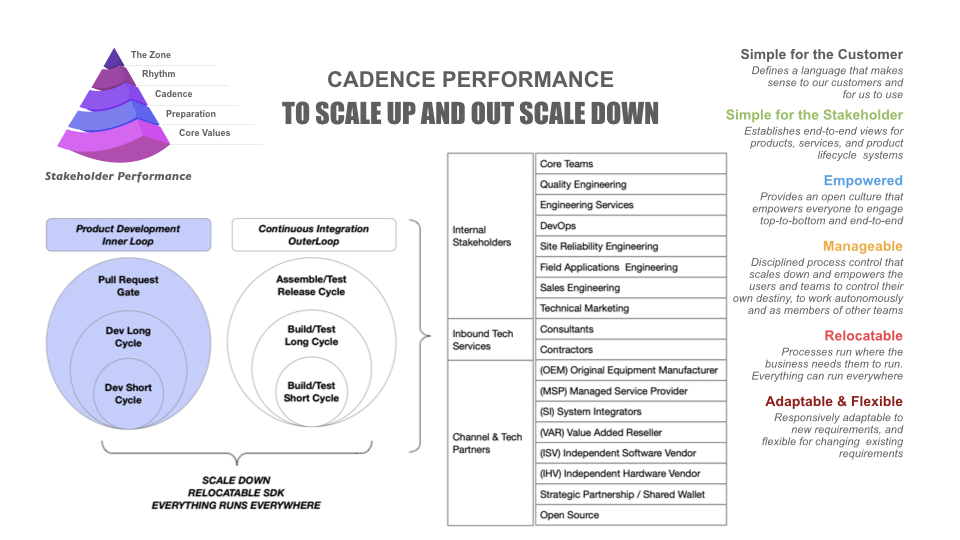
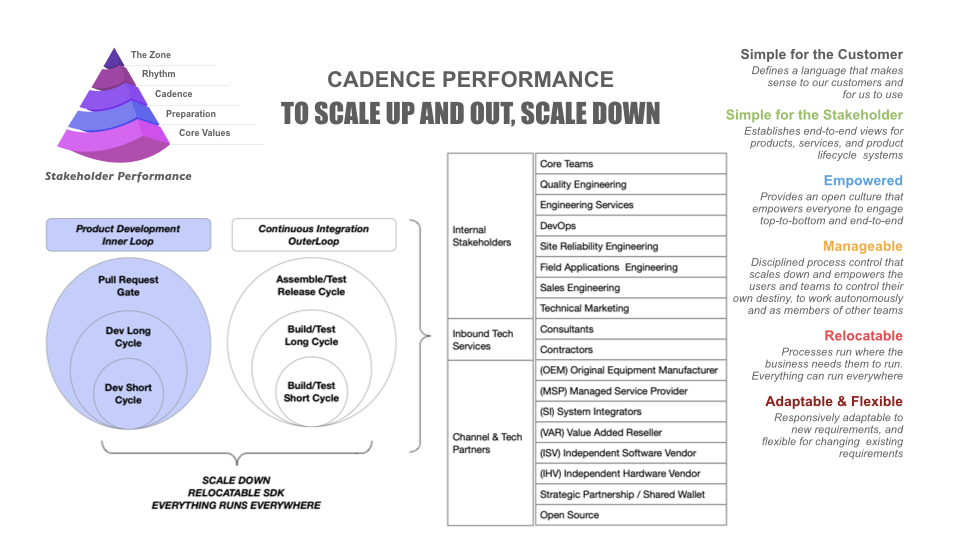
add commad to statement 'to scale up and out, scale down'

Changed region(s): [[0.2812, 0.1778, 0.6875, 0.237]]

diff --git a/_app/start-6b4cd450.js b/_app/start-6b4cd450.js
@@ -1,0 +1,1 @@
+var at=Object.defineProperty,ot=Object.defineProperties;var lt=Object.getOwnPropertyDescriptors;var V=Object.getOwnPropertySymbols;var M=Object.prototype.hasOwnProperty,Y=Object.prototype.propertyIsEnumerable;var X=(n,t,e)=>t in n?at(n,t,{enumerable:!0,configurable:!0,writable:!0,value:e}):n[t]=e,E=(n,t)=>{for(var e in t||(t={}))M.call(t,e)&&X(n,e,t[e]);if(V)for(var e of V(t))Y.call(t,e)&&X(n,e,t[e]);return n},F=(n,t)=>ot(n,lt(t));var H=(n,t)=>{var e={};for(var s in n)M.call(n,s)&&t.indexOf(s)<0&&(e[s]=n[s]);if(n!=null&&V)for(var s of V(n))t.indexOf(s)<0&&Y.call(n,s)&&(e[s]=n[s]);return e};import{S as ct,i as ut,s as ft,e as ht,c as dt,a as _t,d as v,b as C,f as k,t as pt,g as mt,h as gt,j as q,k as wt,l as b,m as D,n as bt,o as U,p as B,q as K,r as P,u as y,v as A,w as I,x as g,y as yt,z as vt,A as Et,B as J,C as W}from"./chunks/vendor-3c118b73.js";function Q(n){let t,e,s;const r=[n[2]||{}];var a=n[0][1];function i(o){let l={$$slots:{default:[kt]},$$scope:{ctx:o}};for(let c=0;c<r.length;c+=1)l=J(l,r[c]);return{props:l}}return a&&(t=new a(i(n))),{c(){t&&q(t.$$.fragment),e=b()},l(o){t&&D(t.$$.fragment,o),e=b()},m(o,l){t&&U(t,o,l),k(o,e,l),s=!0},p(o,l){const c=l&4?B(r,[K(o[2]||{})]):{};if(l&521&&(c.$$scope={dirty:l,ctx:o}),a!==(a=o[0][1])){if(t){P();const u=t;y(u.$$.fragment,1,0,()=>{A(u,1)}),I()}a?(t=new a(i(o)),q(t.$$.fragment),g(t.$$.fragment,1),U(t,e.parentNode,e)):t=null}else a&&t.$set(c)},i(o){s||(t&&g(t.$$.fragment,o),s=!0)},o(o){t&&y(t.$$.fragment,o),s=!1},d(o){o&&v(e),t&&A(t,o)}}}function Z(n){let t,e,s;const r=[n[3]||{}];var a=n[0][2];function i(o){let l={};for(let c=0;c<r.length;c+=1)l=J(l,r[c]);return{props:l}}return a&&(t=new a(i())),{c(){t&&q(t.$$.fragment),e=b()},l(o){t&&D(t.$$.fragment,o),e=b()},m(o,l){t&&U(t,o,l),k(o,e,l),s=!0},p(o,l){const c=l&8?B(r,[K(o[3]||{})]):{};if(a!==(a=o[0][2])){if(t){P();const u=t;y(u.$$.fragment,1,0,()=>{A(u,1)}),I()}a?(t=new a(i()),q(t.$$.fragment),g(t.$$.fragment,1),U(t,e.parentNode,e)):t=null}else a&&t.$set(c)},i(o){s||(t&&g(t.$$.fragment,o),s=!0)},o(o){t&&y(t.$$.fragment,o),s=!1},d(o){o&&v(e),t&&A(t,o)}}}function kt(n){let t,e,s=n[0][2]&&Z(n);return{c(){s&&s.c(),t=b()},l(r){s&&s.l(r),t=b()},m(r,a){s&&s.m(r,a),k(r,t,a),e=!0},p(r,a){r[0][2]?s?(s.p(r,a),a&1&&g(s,1)):(s=Z(r),s.c(),g(s,1),s.m(t.parentNode,t)):s&&(P(),y(s,1,1,()=>{s=null}),I())},i(r){e||(g(s),e=!0)},o(r){y(s),e=!1},d(r){s&&s.d(r),r&&v(t)}}}function $t(n){let t,e,s=n[0][1]&&Q(n);return{c(){s&&s.c(),t=b()},l(r){s&&s.l(r),t=b()},m(r,a){s&&s.m(r,a),k(r,t,a),e=!0},p(r,a){r[0][1]?s?(s.p(r,a),a&1&&g(s,1)):(s=Q(r),s.c(),g(s,1),s.m(t.parentNode,t)):s&&(P(),y(s,1,1,()=>{s=null}),I())},i(r){e||(g(s),e=!0)},o(r){y(s),e=!1},d(r){s&&s.d(r),r&&v(t)}}}function x(n){let t,e=n[5]&&tt(n);return{c(){t=ht("div"),e&&e.c(),this.h()},l(s){t=dt(s,"DIV",{id:!0,"aria-live":!0,"aria-atomic":!0,class:!0});var r=_t(t);e&&e.l(r),r.forEach(v),this.h()},h(){C(t,"id","svelte-announcer"),C(t,"aria-live","assertive"),C(t,"aria-atomic","true"),C(t,"class","svelte-1pdgbjn")},m(s,r){k(s,t,r),e&&e.m(t,null)},p(s,r){s[5]?e?e.p(s,r):(e=tt(s),e.c(),e.m(t,null)):e&&(e.d(1),e=null)},d(s){s&&v(t),e&&e.d()}}}function tt(n){let t;return{c(){t=pt(n[6])},l(e){t=mt(e,n[6])},m(e,s){k(e,t,s)},p(e,s){s&64&&gt(t,e[6])},d(e){e&&v(t)}}}function Rt(n){let t,e,s,r;const a=[n[1]||{}];var i=n[0][0];function o(c){let u={$$slots:{default:[$t]},$$scope:{ctx:c}};for(let f=0;f<a.length;f+=1)u=J(u,a[f]);return{props:u}}i&&(t=new i(o(n)));let l=n[4]&&x(n);return{c(){t&&q(t.$$.fragment),e=wt(),l&&l.c(),s=b()},l(c){t&&D(t.$$.fragment,c),e=bt(c),l&&l.l(c),s=b()},m(c,u){t&&U(t,c,u),k(c,e,u),l&&l.m(c,u),k(c,s,u),r=!0},p(c,[u]){const f=u&2?B(a,[K(c[1]||{})]):{};if(u&525&&(f.$$scope={dirty:u,ctx:c}),i!==(i=c[0][0])){if(t){P();const h=t;y(h.$$.fragment,1,0,()=>{A(h,1)}),I()}i?(t=new i(o(c)),q(t.$$.fragment),g(t.$$.fragment,1),U(t,e.parentNode,e)):t=null}else i&&t.$set(f);c[4]?l?l.p(c,u):(l=x(c),l.c(),l.m(s.parentNode,s)):l&&(l.d(1),l=null)},i(c){r||(t&&g(t.$$.fragment,c),r=!0)},o(c){t&&y(t.$$.fragment,c),r=!1},d(c){t&&A(t,c),c&&v(e),l&&l.d(c),c&&v(s)}}}function Lt(n,t,e){let{stores:s}=t,{page:r}=t,{components:a}=t,{props_0:i=null}=t,{props_1:o=null}=t,{props_2:l=null}=t;yt("__svelte__",s),vt(s.page.notify);let c=!1,u=!1,f=null;return Et(()=>{const h=s.page.subscribe(()=>{c&&(e(5,u=!0),e(6,f=document.title||"untitled page"))});return e(4,c=!0),h}),n.$$set=h=>{"stores"in h&&e(7,s=h.stores),"page"in h&&e(8,r=h.page),"components"in h&&e(0,a=h.components),"props_0"in h&&e(1,i=h.props_0),"props_1"in h&&e(2,o=h.props_1),"props_2"in h&&e(3,l=h.props_2)},n.$$.update=()=>{n.$$.dirty&384&&s.page.set(r)},[a,i,o,l,c,u,f,s,r]}class St extends ct{constructor(t){super();ut(this,t,Lt,Rt,ft,{stores:7,page:8,components:0,props_0:1,props_1:2,props_2:3})}}const qt="modulepreload",et={},Ut="/_app/",R=function(t,e){return!e||e.length===0?t():Promise.all(e.map(s=>{if(s=`${Ut}${s}`,s in et)return;et[s]=!0;const r=s.endsWith(".css"),a=r?'[rel="stylesheet"]':"";if(document.querySelector(`link[href="${s}"]${a}`))return;const i=document.createElement("link");if(i.rel=r?"stylesheet":qt,r||(i.as="script",i.crossOrigin=""),i.href=s,document.head.appendChild(i),r)return new Promise((o,l)=>{i.addEventListener("load",o),i.addEventListener("error",l)})})).then(()=>t())},_=[()=>R(()=>import("./pages/__layout.svelte-297936f9.js"),["pages/__layout.svelte-297936f9.js","assets/pages/__layout.svelte-f8be769b.css","chunks/vendor-3c118b73.js"]),()=>R(()=>import("./error.svelte-4d845e96.js"),["error.svelte-4d845e96.js","chunks/vendor-3c118b73.js"]),()=>R(()=>import("./pages/index.svelte-dcca4041.js"),["pages/index.svelte-dcca4041.js","assets/index.svelte_svelte&type=style&lang-687d79b2.css","assets/Sidebar.svelte_svelte&type=style&lang-ef550f66.css","chunks/vendor-3c118b73.js","chunks/Sidebar-cd3a2008.js"]),()=>R(()=>import("./pages/articles/shift-left-introduction.svelte-0c021c80.js"),["pages/articles/shift-left-introduction.svelte-0c021c80.js","assets/index.svelte_svelte&type=style&lang-687d79b2.css","assets/Sidebar.svelte_svelte&type=style&lang-ef550f66.css","chunks/vendor-3c118b73.js"]),()=>R(()=>import("./pages/articles/core-values.svelte-6373d5f2.js"),["pages/articles/core-values.svelte-6373d5f2.js","assets/index.svelte_svelte&type=style&lang-687d79b2.css","assets/Sidebar.svelte_svelte&type=style&lang-ef550f66.css","chunks/vendor-3c118b73.js"]),()=>R(()=>import("./pages/articles/cadence.svelte-6564fdfd.js"),["pages/articles/cadence.svelte-6564fdfd.js","assets/index.svelte_svelte&type=style&lang-687d79b2.css","assets/Sidebar.svelte_svelte&type=style&lang-ef550f66.css","chunks/vendor-3c118b73.js"]),()=>R(()=>import("./pages/onboard.svelte-ba6d5145.js"),["pages/onboard.svelte-ba6d5145.js","assets/index.svelte_svelte&type=style&lang-687d79b2.css","assets/Sidebar.svelte_svelte&type=style&lang-ef550f66.css","chunks/vendor-3c118b73.js","chunks/Sidebar-cd3a2008.js"])],At=[[/^\/$/,[_[0],_[2]],[_[1]]],[/^\/articles\/shift-left-introduction\/?$/,[_[0],_[3]],[_[1]]],[/^\/articles\/core-values\/?$/,[_[0],_[4]],[_[1]]],[/^\/articles\/cadence\/?$/,[_[0],_[5]],[_[1]]],[/^\/onboard\/?$/,[_[0],_[6]],[_[1]]]],Tt=[_[0](),_[1]()];function jt(n){let t=n.baseURI;if(!t){const e=n.getElementsByTagName("base");t=e.length?e[0].href:n.URL}return t}let st="";function Pt(n){st=n.base,n.assets}function z(){return{x:pageXOffset,y:pageYOffset}}function rt(n){for(;n&&n.nodeName.toUpperCase()!=="A";)n=n.parentNode;return n}function it(n){return n instanceof SVGAElement?new URL(n.href.baseVal,document.baseURI):new URL(n.href)}class It{constructor({base:t,routes:e,trailing_slash:s,renderer:r}){this.base=t,this.routes=e,this.trailing_slash=s,this.renderer=r,r.router=this,this.enabled=!0,document.body.setAttribute("tabindex","-1"),history.replaceState(history.state||{},"",location.href)}init_listeners(){"scrollRestoration"in history&&(history.scrollRestoration="manual"),addEventListener("beforeunload",()=>{history.scrollRestoration="auto"}),addEventListener("load",()=>{history.scrollRestoration="manual"});let t;addEventListener("scroll",()=>{clearTimeout(t),t=setTimeout(()=>{const a=F(E({},history.state||{}),{"sveltekit:scroll":z()});history.replaceState(a,document.title,window.location.href)},50)});const e=a=>{const i=rt(a.target);i&&i.href&&i.hasAttribute("sveltekit:prefetch")&&this.prefetch(it(i))};let s;const r=a=>{clearTimeout(s),s=setTimeout(()=>{e(a)},20)};addEventListener("touchstart",e),addEventListener("mousemove",r),addEventListener("click",a=>{if(!this.enabled||a.button||a.which!==1||a.metaKey||a.ctrlKey||a.shiftKey||a.altKey||a.defaultPrevented)return;const i=rt(a.target);if(!i||!i.href)return;const o=it(i);if(o.toString()===location.href){location.hash||a.preventDefault();return}const l=(i.getAttribute("rel")||"").split(/\s+/);if(i.hasAttribute("download")||l&&l.includes("external")||(i instanceof SVGAElement?i.target.baseVal:i.target)||!this.owns(o))return;const c=i.hasAttribute("sveltekit:noscroll");history.pushState({},"",o.href),this._navigate(o,c?z():null,!1,[],o.hash),a.preventDefault()}),addEventListener("popstate",a=>{if(a.state&&this.enabled){const i=new URL(location.href);this._navigate(i,a.state["sveltekit:scroll"],!1,[])}})}owns(t){return t.origin===location.origin&&t.pathname.startsWith(this.base)}parse(t){if(this.owns(t)){const e=t.pathname.slice(this.base.length)||"/",s=decodeURI(e),r=this.routes.filter(([o])=>o.test(s)),a=new URLSearchParams(t.search);return{id:`${e}?${a}`,routes:r,path:e,decoded_path:s,query:a}}}async goto(t,{noscroll:e=!1,replaceState:s=!1,keepfocus:r=!1,state:a={}}={},i){const o=new URL(t,jt(document));return this.enabled&&this.owns(o)?(history[s?"replaceState":"pushState"](a,"",t),this._navigate(o,e?z():null,r,i,o.hash)):(location.href=o.href,new Promise(()=>{}))}enable(){this.enabled=!0}disable(){this.enabled=!1}async prefetch(t){const e=this.parse(t);if(!e)throw new Error("Attempted to prefetch a URL that does not belong to this app");return this.renderer.load(e)}async _navigate(t,e,s,r,a){const i=this.parse(t);if(!i)throw new Error("Attempted to navigate to a URL that does not belong to this app");if(i.path!=="/"){const o=i.path.endsWith("/");(o&&this.trailing_slash==="never"||!o&&this.trailing_slash==="always"&&!(i.path.split("/").pop()||"").includes("."))&&(i.path=o?i.path.slice(0,-1):i.path+"/",history.replaceState({},"",`${this.base}${i.path}${location.search}`))}this.renderer.notify({path:i.path,query:i.query}),await this.renderer.update(i,r,!1,{hash:a,scroll:e,keepfocus:s})}}function nt(n){return n instanceof Error||n&&n.name&&n.message?n:new Error(JSON.stringify(n))}function Ot(n){let t=5381,e=n.length;if(typeof n=="string")for(;e;)t=t*33^n.charCodeAt(--e);else for(;e;)t=t*33^n[--e];return(t>>>0).toString(36)}function Nt(n){const t=n.status&&n.status>=400&&n.status<=599&&!n.redirect;if(n.error||t){const e=n.status;if(!n.error&&t)return{status:e||500,error:new Error};const s=typeof n.error=="string"?new Error(n.error):n.error;return s instanceof Error?!e||e<400||e>599?(console.warn('"error" returned from load() without a valid status code \u2014 defaulting to 500'),{status:500,error:s}):{status:e,error:s}:{status:500,error:new Error(`"error" property returned from load() must be a string or instance of Error, received type "${typeof s}"`)}}if(n.redirect){if(!n.status||Math.floor(n.status/100)!==3)return{status:500,error:new Error('"redirect" property returned from load() must be accompanied by a 3xx status code')};if(typeof n.redirect!="string")return{status:500,error:new Error('"redirect" property returned from load() must be a string')}}if(n.context)throw new Error('You are returning "context" from a load function. "context" was renamed to "stuff", please adjust your code accordingly.');return n}function Vt(n){const t=W(n);let e=!0;function s(){e=!0,t.update(i=>i)}function r(i){e=!1,t.set(i)}function a(i){let o;return t.subscribe(l=>{(o===void 0||e&&l!==o)&&i(o=l)})}return{notify:s,set:r,subscribe:a}}function Ct(n,t){const e=typeof n=="string"?n:n.url;let s=`script[data-type="svelte-data"][data-url=${JSON.stringify(e)}]`;t&&typeof t.body=="string"&&(s+=`[data-body="${Ot(t.body)}"]`);const r=document.querySelector(s);if(r&&r.textContent){const a=JSON.parse(r.textContent),{body:i}=a,o=H(a,["body"]);return Promise.resolve(new Response(i,o))}return fetch(n,t)}class Dt{constructor({Root:t,fallback:e,target:s,session:r,host:a}){this.Root=t,this.fallback=e,this.host=a,this.router,this.target=s,this.started=!1,this.session_id=1,this.invalid=new Set,this.invalidating=null,this.current={page:null,session_id:0,branch:[]},this.cache=new Map,this.loading={id:null,promise:null},this.stores={page:Vt({}),navigating:W(null),session:W(r)},this.$session=null,this.root=null;let i=!1;this.stores.session.subscribe(async o=>{if(this.$session=o,!i||!this.router)return;this.session_id+=1;const l=this.router.parse(new URL(location.href));l&&this.update(l,[],!0)}),i=!0}async start({status:t,error:e,nodes:s,page:r}){const a=[];let i={},o,l;try{for(let c=0;c<s.length;c+=1){const u=c===s.length-1,f=await this._load_node({module:await s[c],page:r,stuff:i,status:u?t:void 0,error:u?e:void 0});if(a.push(f),f&&f.loaded)if(f.loaded.error){if(e)throw f.loaded.error;l={status:f.loaded.status,error:f.loaded.error,path:r.path,query:r.query}}else f.loaded.stuff&&(i=E(E({},i),f.loaded.stuff))}o=l?await this._load_error(l):await this._get_navigation_result_from_branch({page:r,branch:a})}catch(c){if(e)throw c;o=await this._load_error({status:500,error:nt(c),path:r.path,query:r.query})}if(o.redirect){location.href=new URL(o.redirect,location.href).href;return}this._init(o)}notify({path:t,query:e}){dispatchEvent(new CustomEvent("sveltekit:navigation-start")),this.started&&this.stores.navigating.set({from:{path:this.current.page.path,query:this.current.page.query},to:{path:t,query:e}})}async update(t,e,s,r){const a=this.token={};let i=await this._get_navigation_result(t,s);if(a!==this.token)return;if(this.invalid.clear(),i.redirect)if(e.length>10||e.includes(t.path))i=await this._load_error({status:500,error:new Error("Redirect loop"),path:t.path,query:t.query});else{this.router?this.router.goto(i.redirect,{replaceState:!0},[...e,t.path]):location.href=new URL(i.redirect,location.href).href;return}if(i.reload?location.reload():this.started?(this.current=i.state,this.root.$set(i.props),this.stores.navigating.set(null)):this._init(i),r){const{hash:l,scroll:c,keepfocus:u}=r;u||document.body.focus();const f=l&&document.getElementById(l.slice(1));c?scrollTo(c.x,c.y):f?f.scrollIntoView():scrollTo(0,0)}if(await 0,dispatchEvent(new CustomEvent("sveltekit:navigation-end")),this.loading.promise=null,this.loading.id=null,!this.router)return;const o=i.state.branch[i.state.branch.length-1];o&&o.module.router===!1?this.router.disable():this.router.enable()}load(t){return this.loading.promise=this._get_navigation_result(t,!1),this.loading.id=t.id,this.loading.promise}invalidate(t){return this.invalid.add(t),this.invalidating||(this.invalidating=Promise.resolve().then(async()=>{const e=this.router&&this.router.parse(new URL(location.href));e&&await this.update(e,[],!0),this.invalidating=null})),this.invalidating}_init(t){this.current=t.state;const e=document.querySelector("style[data-svelte]");e&&e.remove(),this.root=new this.Root({target:this.target,props:E({stores:this.stores},t.props),hydrate:!0}),this.started=!0}async _get_navigation_result(t,e){if(this.loading.id===t.id&&this.loading.promise)return this.loading.promise;for(let s=0;s<t.routes.length;s+=1){const r=t.routes[s];if(r.length===1)return{reload:!0,props:{},state:this.current};let a=s+1;for(;a<t.routes.length;){const o=t.routes[a];if(o[0].toString()===r[0].toString())o.length!==1&&o[1].forEach(l=>l()),a+=1;else break}const i=await this._load({route:r,info:t},e);if(i)return i}return await this._load_error({status:404,error:new Error(`Not found: ${t.path}`),path:t.path,query:t.query})}async _get_navigation_result_from_branch({page:t,branch:e}){const s=e.filter(Boolean),r=s.find(l=>l.loaded&&l.loaded.redirect),a={redirect:r&&r.loaded?r.loaded.redirect:void 0,state:{page:t,branch:e,session_id:this.session_id},props:{components:s.map(l=>l.module.default)}};for(let l=0;l<s.length;l+=1){const c=s[l].loaded;a.props[`props_${l}`]=c?await c.props:null}(!this.current.page||t.path!==this.current.page.path||t.query.toString()!==this.current.page.query.toString())&&(a.props.page=t);const i=s[s.length-1],o=i.loaded&&i.loaded.maxage;if(o){const l=`${t.path}?${t.query}`;let c=!1;const u=()=>{this.cache.get(l)===a&&this.cache.delete(l),h(),clearTimeout(f)},f=setTimeout(u,o*1e3),h=this.stores.session.subscribe(()=>{c&&u()});c=!0,this.cache.set(l,a)}return a}async _load_node({status:t,error:e,module:s,page:r,stuff:a}){const i={module:s,uses:{params:new Set,path:!1,query:!1,session:!1,stuff:!1,dependencies:[]},loaded:null,stuff:a},o={};for(const c in r.params)Object.defineProperty(o,c,{get(){return i.uses.params.add(c),r.params[c]},enumerable:!0});const l=this.$session;if(s.load){const{started:c}=this,u={page:{host:r.host,params:o,get path(){return i.uses.path=!0,r.path},get query(){return i.uses.query=!0,r.query}},get session(){return i.uses.session=!0,l},get stuff(){return i.uses.stuff=!0,E({},a)},fetch(h,L){const $=typeof h=="string"?h:h.url,{href:T}=new URL($,new URL(r.path,document.baseURI));return i.uses.dependencies.push(T),c?fetch(h,L):Ct(h,L)}};e&&(u.status=t,u.error=e);const f=await s.load.call(null,u);if(!f)return;i.loaded=Nt(f),i.loaded.stuff&&(i.stuff=i.loaded.stuff)}return i}async _load({route:t,info:{path:e,decoded_path:s,query:r}},a){const i=`${s}?${r}`;if(!a){const d=this.cache.get(i);if(d)return d}const[o,l,c,u]=t,f=u?u(o.exec(s)):{},h=this.current.page&&{path:e!==this.current.page.path,params:Object.keys(f).filter(d=>this.current.page.params[d]!==f[d]),query:r.toString()!==this.current.page.query.toString(),session:this.session_id!==this.current.session_id},L={host:this.host,path:e,query:r,params:f};let $=[],T={},G=!1,O=200,j;l.forEach(d=>d());t:for(let d=0;d<l.length;d+=1){let p;try{if(!l[d])continue;const w=await l[d](),m=this.current.branch[d];if(!m||w!==m.module||h.path&&m.uses.path||h.params.some(S=>m.uses.params.has(S))||h.query&&m.uses.query||h.session&&m.uses.session||m.uses.dependencies.some(S=>this.invalid.has(S))||G&&m.uses.stuff){p=await this._load_node({module:w,page:L,stuff:T});const S=d===l.length-1;if(p&&p.loaded){if(p.loaded.error&&(O=p.loaded.status,j=p.loaded.error),p.loaded.redirect)return{redirect:p.loaded.redirect,props:{},state:this.current};p.loaded.stuff&&(G=!0)}else if(S&&w.load)return}else p=m}catch(w){O=500,j=nt(w)}if(j){for(;d--;)if(c[d]){let w,m,N=d;for(;!(m=$[N]);)N-=1;try{if(w=await this._load_node({status:O,error:j,module:await c[d](),page:L,stuff:m.stuff}),w&&w.loaded&&w.loaded.error)continue;$=$.slice(0,N+1).concat(w);break t}catch(S){continue}}return await this._load_error({status:O,error:j,path:e,query:r})}else p&&p.loaded&&p.loaded.stuff&&(T=E(E({},T),p.loaded.stuff)),$.push(p)}return await this._get_navigation_result_from_branch({page:L,branch:$})}async _load_error({status:t,error:e,path:s,query:r}){const a={host:this.host,path:s,query:r,params:{}},i=await this._load_node({module:await this.fallback[0],page:a,stuff:{}}),o=[i,await this._load_node({status:t,error:e,module:await this.fallback[1],page:a,stuff:i&&i.loaded&&i.loaded.stuff||{}})];return await this._get_navigation_result_from_branch({page:a,branch:o})}}async function Jt({paths:n,target:t,session:e,host:s,route:r,spa:a,trailing_slash:i,hydrate:o}){const l=new Dt({Root:St,fallback:Tt,target:t,session:e,host:s}),c=r?new It({base:n.base,routes:At,trailing_slash:i,renderer:l}):null;Pt(n),o&&await l.start(o),c&&(a&&c.goto(location.href,{replaceState:!0},[]),c.init_listeners()),dispatchEvent(new CustomEvent("sveltekit:start"))}export{Jt as start};

diff --git a/_app/pages/onboard.svelte-ba6d5145.js b/_app/pages/onboard.svelte-ba6d5145.js
@@ -1,0 +1,1 @@
+import{S as D,i as F,s as G,e as T,k as $,t as q,Q as L,c as E,a as w,d as m,n as S,g as Q,R as z,b as O,f as R,G as v,K as j,A as K,N as J,O as M,j as A,E as W,m as k,o as C,P as V,x as P,u as N,v as B}from"../chunks/vendor-3c118b73.js";import{S as X,N as Y}from"../chunks/Sidebar-cd3a2008.js";/* empty css                                                      */class Z{constructor(e){this._anchor=e}reload(e){d3.select("#"+this._anchor).selectAll("*").remove(),this.load(e)}load(e){let t=function(n){return n.dependsOn},i=d3.dagStratify().parentIds(t)(e),s=20,a=d3.sugiyama().decross(d3.decrossOpt()).nodeSize(n=>[(n?3.6:.25)*s,3*s]),{width:l,height:o}=a(i),d=d3.select("#"+this._anchor);d.attr("viewBox",[0,0,l,o].join(" "));let u=d.append("defs"),b=i.size(),h=d3.interpolateRainbow,f=new Map;for(let[n,p]of i.idescendants().entries())f.set(p.data.id,h(n/b));let g=d3.line().curve(d3.curveCatmullRom).x(n=>n.x).y(n=>n.y);d.append("g").selectAll("path").data(i.links()).enter().append("path").attr("d",({points:n})=>g(n)).attr("fill","none").attr("stroke-width",3).attr("stroke",({source:n,target:p})=>{let y=encodeURIComponent(`${n.data.id}--${p.data.id}`),x=u.append("linearGradient").attr("id",y).attr("gradientUnits","userSpaceOnUse").attr("x1",n.x).attr("x2",p.x).attr("y1",n.y).attr("y2",p.y);return x.append("stop").attr("offset","0%").attr("stop-color",f.get(n.data.id)),x.append("stop").attr("offset","100%").attr("stop-color",f.get(p.data.id)),`url(#${y})`});let r=d.append("g").selectAll("g").data(i.descendants()).enter().append("g").attr("transform",({x:n,y:p})=>`translate(${n}, ${p})`);r.append("circle").attr("r",s).attr("fill",n=>f.get(n.data.id)),r.append("text").text(n=>n.data.description).style("font-size","4px").attr("font-weight","bold").attr("font-family","sans-serif").attr("text-anchor","middle").attr("alignment-baseline","middle").attr("fill","white").on("click",function(n,p){console.log("d3dag click "+JSON.stringify(p.data.id)+" "+JSON.stringify(p))})}}class I{constructor(e){this._id=e,this._events={}}static create(e){return new I(e)}logger(e){console.log(`${this._id} ${e}`)}publish(e,t){if(!!this._events.hasOwnProperty(e))for(let i of this._events[e])setTimeout(()=>i(e,t),0)}subscribe(e,t){this._events.hasOwnProperty(e)||(this._events[e]=[]),this._events[e].push(t)}subscribers(){return this._events}unsubscribe(e){this._events.hasOwnProperty(e)&&delete this._events[e]}}class H{constructor(e,t){this._id=e,this._eventEmitter=t,this._state={active:!1,task:{}}}static create(e,t){return new H(e,t)}logger(e,t,i={}){t.mode!==void 0&&t.mode==="debug"&&console.log(`${e}`,JSON.stringify(t,null,2),i)}staticstubHandler(e,t,i){let s=function(a,l,o){console.log(`handler ${a.handler} `,JSON.stringify({id:a.id,description:a.description,dependsOn:a.onEvent.join(",")})),o(a.publishEvent,l)};setTimeout(()=>s(e,t,i),Math.floor(Math.random()*1e3))}route(e){let t=this,i=Object.assign({},e,{lifecycle:this._id});return typeof this[i.handler]=="function"&&i.handler,function(s,a){t.publish(i.publishEvent,a)}}publish(e,t={}){console.log("lifecycleHandler.publish:",e),this._eventEmitter.publish(e,t)}subscribe(e,t){this._eventEmitter.subscribe(e,t)}subscribers(){return this._eventEmitter.subscribers()}trigger(e,t){console.log("lifecycleHandler.trigger:",e),this.publish(e,t)}}class U{constructor(e){this._id=e}static createTask(e){return typeof e.id!="string"?{task:{},err:"task.id must be type string"}:typeof e.description!="string"?{task:{},err:"task.description must be type string"}:Array.isArray(e.dependsOn)?typeof e.handler!="string"?{task:{},err:"task.handler must be type string"}:typeof e.params!="object"?{task:{},err:"task.params must be type object"}:typeof e.eventType!="string"?{task:{},err:"task.eventType must be type string"}:{task:{id:e.id,description:e.description,dependsOn:e.dependsOn,handler:e.handler,params:e.params,eventType:e.eventType,onEvent:_.map(e.dependsOn,t=>t+":done"),publishEvent:e.id+":done"},err:null}:{task:{},err:`${e.id} task.dependsOn must be type array`}}static parse(e,t){let i=[],s=[];return _.forEach(t,a=>{let{task:l,err:o}=U.createTask(a);o?s.push(o):i.push(l)}),{tasks:i,err:s}}}class ee{constructor(e){this._id=e,this._lifecycleHandler=H.create(e,I.create(e)),console.log("Pipeline started with id: "+e)}setupEventSubscriptions(e){let{tasks:t,err:i}=U.parse(this._id,e);_.forEach(t,s=>{_.forEach(s.onEvent,a=>{let l=this._lifecycleHandler.route.apply(this._lifecycleHandler,[s]);this._lifecycleHandler.subscribe(a,l)})})}listEventSubscriptions(){return this._lifecycleHandler.subscribers()}start(){console.log("start trigger"),this._lifecycleHandler.trigger("flow:create:done",{})}}function te(c){let e,t,i,s,a,l,o,d,u,b,h,f;return{c(){e=T("main"),t=T("div"),i=$(),s=T("div"),a=T("div"),l=T("button"),o=q("Button"),d=$(),u=T("div"),b=$(),h=T("div"),f=L("svg"),this.h()},l(g){e=E(g,"MAIN",{});var r=w(e);t=E(r,"DIV",{class:!0}),w(t).forEach(m),i=S(r),s=E(r,"DIV",{class:!0});var n=w(s);a=E(n,"DIV",{class:!0});var p=w(a);l=E(p,"BUTTON",{id:!0,class:!0});var y=w(l);o=Q(y,"Button"),y.forEach(m),d=S(p),u=E(p,"DIV",{id:!0}),w(u).forEach(m),p.forEach(m),b=S(n),h=E(n,"DIV",{class:!0});var x=w(h);f=z(x,"svg",{id:!0}),w(f).forEach(m),x.forEach(m),n.forEach(m),r.forEach(m),this.h()},h(){O(t,"class","support-grid"),O(l,"id","exportGlossary"),O(l,"class","bg-blue-500 hover:bg-blue-700 text-white font-bold py-2 px-4 rounded"),O(u,"id","glossary"),O(a,"class","glossary"),O(f,"id","dag"),O(h,"class","dag"),O(s,"class","onboard")},m(g,r){R(g,e,r),v(e,t),v(e,i),v(e,s),v(s,a),v(a,l),v(l,o),v(a,d),v(a,u),v(s,b),v(s,h),v(h,f)},p:j,i:j,o:j,d(g){g&&m(e)}}}function re(c,e,t){let{data:i}=e,{anchor:s}=e;const a=new ee("wtf"),l=[{id:"bun-top",description:"bun",eventType:"app",dependsOn:[],handler:"assembleBurger",params:{}},{id:"cheese-2",description:"cheese",eventType:"app",dependsOn:["bun-top"],handler:"assembleBurger",params:{}},{id:"patty-2",description:"meat",eventType:"app",dependsOn:["cheese-2"],handler:"assembleBurger",params:{}},{id:"cheese-1",description:"cheese",eventType:"app",dependsOn:["patty-2"],handler:"assembleBurger",params:{}},{id:"patty-1",description:"meat",eventType:"app",dependsOn:["cheese-1"],handler:"assembleBurger",params:{}},{id:"bun-bottom",description:"bun",eventType:"app",dependsOn:["patty-1"],handler:"assembleBurger",params:{}}],o=[{id:"flow:start",description:"Start flow button was clicked by user",eventType:"app",dependsOn:[],handler:"flowStart",params:{}},{id:"flow:configure",description:"Configure Flow",eventType:"app",dependsOn:["flow:start"],handler:"flowConfigure",params:{variant:"release"}},{id:"flow:publish",description:"Publish Flow Configuration",eventType:"app",dependsOn:["flow:configure"],handler:"flowPublish",params:{variant:"release"}},{id:"flow:create",description:"Create Flow",eventType:"app",dependsOn:["flow:configure"],handler:"flowCreate",params:{variant:"release"}},{id:"flow:run",description:"Run flow",eventType:"app",dependsOn:["flow:create"],handler:"flowRun",params:{variant:"release"}},{id:"flow:assembly",description:"Assemble Flow Artifacts",eventType:"app",dependsOn:["flow:run"],handler:"flowAssembly",params:{variant:"release"}},{id:"flow:report",description:"Generate Flow Report",eventType:"app",dependsOn:["flow:run"],handler:"flowReport",params:{variant:"release"}},{id:"flow:upload",description:"Publish flow artifacts",eventType:"app",dependsOn:["flow:report"],handler:"flowUpload",params:{variant:"release"}}],d={text:"Select Glossary",state:{opened:!0,selected:!0},children:[{text:"Upload",data:{id:"upload",description:"Publish flow artifacts",eventType:"app",dependsOn:["assembly","report"],handler:"flowUpload",params:{variant:"release"}}},{text:"Start",data:{id:"start",description:"Start flow button was clicked by user",eventType:"app",dependsOn:[],handler:"flowStart",params:{}}},{text:"Create",data:{id:"create",description:"Create Flow",eventType:"app",dependsOn:["configure","publish"],handler:"flowCreate",params:{variant:"release"}}},{text:"Report",data:{id:"report",description:"Generate Flow Report",eventType:"app",dependsOn:["run"],handler:"flowReport",params:{variant:"release"}}},{text:"Configure",data:{id:"configure",description:"Configure Flow",eventType:"app",dependsOn:["start"],handler:"flowConfigure",params:{variant:"release"}}},{text:"Publish",data:{id:"publish",description:"Publish Flow Configuration",eventType:"app",dependsOn:["configure"],handler:"flowPublish",params:{variant:"release"}}},{text:"Run",data:{id:"run",description:"Run flow",eventType:"app",dependsOn:["create"],handler:"flowRun",params:{variant:"release"}}},{text:"Assemble",data:{id:"assemble",description:"Assemble Flow Artifacts",eventType:"app",dependsOn:["run"],handler:"flowAssembly",params:{variant:"release"}}}]};let u;return K(async()=>{u=new Z(s),u.load(i),a.setupEventSubscriptions(o),console.log("subscribers:",a.listEventSubscriptions()),a.start();let b=jQuery.jstree.defaults.contextmenu.items();console.log("glossary menu items:"+JSON.stringify(b)),jQuery("#glossary").jstree({core:{data:[d],check_callback:!0},plugins:["contextmenu","dnd","search","state","types","wholerow"]}).on("rename_node.jstree",function(h,f){console.log("you clicked jstree jquery created or renamed node "+JSON.stringify(f.node.text))}).on("delete_node.jstree",function(h,f){console.log("you clicked jstree jquery deleted node "+JSON.stringify(f.node.text))}),document.getElementById("exportGlossary").addEventListener("click",function(h){h.preventDefault(),console.log("Export Glossary"),console.log(jQuery("#glossary").jstree(!0).get_json("#",{flat:!0,no_a_attr:!0,no_state:!0,no_li_attr:!0})),u.reload(l)})}),c.$$set=b=>{"data"in b&&t(0,i=b.data),"anchor"in b&&t(1,s=b.anchor)},[i,s,a]}class ae extends D{constructor(e){super();F(this,e,re,te,G,{data:0,anchor:1,pipeline:2})}get pipeline(){return this.$$.ctx[2]}}function ne(c){let e,t,i,s,a,l,o,d,u;function b(r){c[3](r)}let h={articles:c[1]};c[0]!==void 0&&(h.open=c[0]),t=new X({props:h}),J.push(()=>M(t,"open",b));function f(r){c[4](r)}let g={};return c[0]!==void 0&&(g.sidebar=c[0]),a=new Y({props:g}),J.push(()=>M(a,"sidebar",f)),d=new ae({props:{anchor:se,data:c[2]}}),{c(){e=$(),A(t.$$.fragment),s=$(),A(a.$$.fragment),o=$(),A(d.$$.fragment),this.h()},l(r){W('[data-svelte="svelte-fckimb"]',document.head).forEach(m),e=S(r),k(t.$$.fragment,r),s=S(r),k(a.$$.fragment,r),o=S(r),k(d.$$.fragment,r),this.h()},h(){document.title="Onboard 0.1"},m(r,n){R(r,e,n),C(t,r,n),R(r,s,n),C(a,r,n),R(r,o,n),C(d,r,n),u=!0},p(r,[n]){const p={};!i&&n&1&&(i=!0,p.open=r[0],V(()=>i=!1)),t.$set(p);const y={};!l&&n&1&&(l=!0,y.sidebar=r[0],V(()=>l=!1)),a.$set(y)},i(r){u||(P(t.$$.fragment,r),P(a.$$.fragment,r),P(d.$$.fragment,r),u=!0)},o(r){N(t.$$.fragment,r),N(a.$$.fragment,r),N(d.$$.fragment,r),u=!1},d(r){r&&m(e),B(t,r),r&&m(s),B(a,r),r&&m(o),B(d,r)}}}let se="dag";function ie(c,e,t){let i=[],s=!1;const a=[{id:"start",description:"START",eventType:"app",dependsOn:[],handler:"flowStart",params:{}},{id:"configure",description:"CONFIGURRE",eventType:"app",dependsOn:["start"],handler:"flowConfigure",params:{variant:"release"}},{id:"publish",description:"PUBLISH",eventType:"app",dependsOn:["configure"],handler:"flowPublish",params:{variant:"release"}},{id:"create",description:"CREATE",eventType:"app",dependsOn:["configure","publish"],handler:"flowCreate",params:{variant:"release"}},{id:"run",description:"RUN",eventType:"app",dependsOn:["create"],handler:"flowRun",params:{variant:"release"}},{id:"assembly",description:"ASSEMBLE",eventType:"app",dependsOn:["run"],handler:"flowAssembly",params:{variant:"release"}},{id:"report",description:"GENERATE",eventType:"app",dependsOn:["run"],handler:"flowReport",params:{variant:"release"}},{id:"upload",description:"PUBLISH",eventType:"app",dependsOn:["assembly","report"],handler:"flowUpload",params:{variant:"release"}}];function l(d){s=d,t(0,s)}function o(d){s=d,t(0,s)}return[s,i,a,l,o]}class pe extends D{constructor(e){super();F(this,e,ie,ne,G,{})}}export{pe as default};

diff --git a/_app/assets/pages/__layout.svelte-f8be769b.css b/_app/assets/pages/__layout.svelte-f8be769b.css
@@ -1,0 +1,1 @@
+html{-webkit-text-size-adjust:100%;line-height:1.15;-moz-tab-size:4;-o-tab-size:4;tab-size:4}body{font-family:system-ui,-apple-system,Segoe UI,Roboto,Helvetica,Arial,sans-serif,Apple Color Emoji,Segoe UI Emoji;margin:0}hr{color:inherit;height:0}abbr[title]{-webkit-text-decoration:underline dotted;text-decoration:underline dotted}b,strong{font-weight:bolder}code,kbd,pre,samp{font-family:ui-monospace,SFMono-Regular,Consolas,Liberation Mono,Menlo,monospace;font-size:1em}small{font-size:80%}sub,sup{font-size:75%;line-height:0;position:relative;vertical-align:baseline}sub{bottom:-.25em}sup{top:-.5em}table{border-color:inherit;text-indent:0}button,input,optgroup,select,textarea{font-family:inherit;font-size:100%;line-height:1.15;margin:0}button,select{text-transform:none}[type=button],[type=reset],[type=submit],button{-webkit-appearance:button}::-moz-focus-inner{border-style:none;padding:0}:-moz-focusring{outline:1px dotted ButtonText}:-moz-ui-invalid{box-shadow:none}legend{padding:0}progress{vertical-align:baseline}::-webkit-inner-spin-button,::-webkit-outer-spin-button{height:auto}[type=search]{-webkit-appearance:textfield;outline-offset:-2px}::-webkit-search-decoration{-webkit-appearance:none}::-webkit-file-upload-button{-webkit-appearance:button;font:inherit}summary{display:list-item}blockquote,dd,dl,figure,h1,h2,h3,h4,h5,h6,hr,p,pre{margin:0}button{background-color:transparent;background-image:none}fieldset,ol,ul{margin:0;padding:0}ol,ul{list-style:none}html{font-family:ui-sans-serif,system-ui,-apple-system,BlinkMacSystemFont,Segoe UI,Roboto,Helvetica Neue,Arial,Noto Sans,sans-serif,Apple Color Emoji,Segoe UI Emoji,Segoe UI Symbol,Noto Color Emoji;line-height:1.5}body{font-family:inherit;line-height:inherit}*,:after,:before{border:0 solid;box-sizing:border-box}hr{border-top-width:1px}img{border-style:solid}textarea{resize:vertical}input::-moz-placeholder,textarea::-moz-placeholder{color:#9ca3af;opacity:1}input:-ms-input-placeholder,textarea:-ms-input-placeholder{color:#9ca3af;opacity:1}input::placeholder,textarea::placeholder{color:#9ca3af;opacity:1}[role=button],button{cursor:pointer}:-moz-focusring{outline:auto}table{border-collapse:collapse}h1,h2,h3,h4,h5,h6{font-size:inherit;font-weight:inherit}a{color:inherit;text-decoration:inherit}button,input,optgroup,select,textarea{color:inherit;line-height:inherit;padding:0}code,kbd,pre,samp{font-family:ui-monospace,SFMono-Regular,Menlo,Monaco,Consolas,Liberation Mono,Courier New,monospace}audio,canvas,embed,iframe,img,object,svg,video{display:block;vertical-align:middle}img,video{height:auto;max-width:100%}[hidden]{display:none}*,:after,:before{--tw-translate-x:0;--tw-translate-y:0;--tw-rotate:0;--tw-skew-x:0;--tw-skew-y:0;--tw-scale-x:1;--tw-scale-y:1;--tw-transform:translateX(var(--tw-translate-x)) translateY(var(--tw-translate-y)) rotate(var(--tw-rotate)) skewX(var(--tw-skew-x)) skewY(var(--tw-skew-y)) scaleX(var(--tw-scale-x)) scaleY(var(--tw-scale-y));--tw-border-opacity:1;--tw-ring-offset-shadow:0 0 #0000;--tw-ring-shadow:0 0 #0000;--tw-shadow:0 0 #0000;border-color:rgba(229,231,235,var(--tw-border-opacity))}.onboard{--tw-border-opacity:1;border:2px solid rgba(0,0,0,var(--tw-border-opacity));display:grid;gap:1rem;grid-auto-rows:auto;grid-template-columns:repeat(2,minmax(0,1fr));margin-left:auto;margin-right:auto;margin-top:.5rem;max-width:1280px;width:91.666667%}.dag,.glossary{--tw-bg-opacity:1;--tw-text-opacity:1;background-color:rgba(255,255,255,var(--tw-bg-opacity));color:rgba(107,114,128,var(--tw-text-opacity));display:flex;flex-direction:column;min-height:100%;position:relative;text-decoration:none;top:0}.band{display:grid;gap:1rem;grid-auto-rows:auto;grid-template-columns:repeat(2,minmax(0,1fr));margin-left:auto;margin-right:auto;margin-top:.5rem;max-width:1280px;width:91.666667%}@media (min-width:768px){.band{grid-template-columns:repeat(3,minmax(0,1fr))}}@media (min-width:1280px){.band{grid-template-columns:repeat(4,minmax(0,1fr))}}.card{--tw-bg-opacity:1;--tw-text-opacity:1;--tw-shadow:0 1px 3px 0 rgba(0,0,0,.1),0 1px 2px 0 rgba(0,0,0,.06);background-color:rgba(255,255,255,var(--tw-bg-opacity));color:rgba(107,114,128,var(--tw-text-opacity));display:flex;flex-direction:column;min-height:100%;position:relative;text-decoration:none;top:0;transition-duration:.15s;transition-property:all;transition-timing-function:cubic-bezier(.4,0,.2,1)}.card,.card:hover{box-shadow:var(--tw-ring-offset-shadow,0 0 #0000),var(--tw-ring-shadow,0 0 #0000),var(--tw-shadow)}.card:hover{--tw-shadow:0 10px 15px -3px rgba(0,0,0,.1),0 4px 6px -2px rgba(0,0,0,.05);top:.5rem}.card .thumb{background-position:50%;background-size:cover;padding-bottom:60%}.card article{display:flex;flex:1 1 0%;flex-direction:column;justify-content:space-between;padding:1rem}.card article h1{--tw-text-opacity:1;color:rgba(75,85,99,var(--tw-text-opacity));font-size:1.25rem;line-height:1.75rem;margin:0}.card article p{display:flex;flex:1 1 0%;line-height:1.5}.card span{--tw-text-opacity:1;color:rgba(156,163,175,var(--tw-text-opacity));font-size:.75rem;font-weight:700;letter-spacing:.05em;line-height:1rem;margin-top:2rem;text-transform:uppercase}.article h2{--tw-text-opacity:1;color:rgba(55,65,81,var(--tw-text-opacity));font-size:1.25rem;line-height:1.75rem;margin-left:2.5rem;margin-right:2.5rem;margin-top:2rem}.article p{--tw-text-opacity:1;-webkit-font-smoothing:antialiased;-moz-osx-font-smoothing:grayscale;color:rgba(75,85,99,var(--tw-text-opacity));font-family:ui-sans-serif,system-ui,-apple-system,BlinkMacSystemFont,Segoe UI,Roboto,Helvetica Neue,Arial,Noto Sans,sans-serif,Apple Color Emoji,Segoe UI Emoji,Segoe UI Symbol,Noto Color Emoji;font-size:1rem;letter-spacing:.05em;line-height:1.5rem;margin-left:2.5rem;margin-right:2.5rem;margin-top:.75rem;padding:0;text-align:justify}@media (min-width:640px){.article p{font-size:.875rem;line-height:1.25rem}}@media (min-width:768px){.article p{font-size:1.125rem;line-height:1.75rem}}.static{position:static}.fixed{position:fixed}.z-40{z-index:40}.z-30{z-index:30}.z-20{z-index:20}.col-span-2{grid-column:span 2/span 2}.mr-4{margin-right:1rem}.mb-10{margin-bottom:2.5rem}.flex{display:flex}.list-item{display:list-item}.h-full{height:100%}.w-full{width:100%}.transform{transform:var(--tw-transform)}.cursor-pointer{cursor:pointer}.items-center{align-items:center}.justify-center{justify-content:center}.rounded{border-radius:.25rem}.border-b-2{border-bottom-width:2px}.border-r-2{border-right-width:2px}.border-none{border-style:none}.bg-blue-500{--tw-bg-opacity:1;background-color:rgba(59,130,246,var(--tw-bg-opacity))}.bg-white{--tw-bg-opacity:1;background-color:rgba(255,255,255,var(--tw-bg-opacity))}.p-2{padding:.5rem}.p-12{padding:3rem}.py-2{padding-bottom:.5rem;padding-top:.5rem}.px-4{padding-left:1rem;padding-right:1rem}.pr-10{padding-right:2.5rem}.text-sm{font-size:.875rem;line-height:1.25rem}.font-bold{font-weight:700}.text-blue-200{--tw-text-opacity:1;color:rgba(191,219,254,var(--tw-text-opacity))}.text-gray-600{--tw-text-opacity:1;color:rgba(75,85,99,var(--tw-text-opacity))}.text-white{--tw-text-opacity:1;color:rgba(255,255,255,var(--tw-text-opacity))}.shadow-lg{--tw-shadow:0 10px 15px -3px rgba(0,0,0,.1),0 4px 6px -2px rgba(0,0,0,.05);box-shadow:var(--tw-ring-offset-shadow,0 0 #0000),var(--tw-ring-shadow,0 0 #0000),var(--tw-shadow)}.transition{transition-duration:.15s;transition-property:background-color,border-color,color,fill,stroke,opacity,box-shadow,transform,filter,-webkit-backdrop-filter;transition-property:background-color,border-color,color,fill,stroke,opacity,box-shadow,transform,filter,backdrop-filter;transition-property:background-color,border-color,color,fill,stroke,opacity,box-shadow,transform,filter,backdrop-filter,-webkit-backdrop-filter;transition-timing-function:cubic-bezier(.4,0,.2,1)}.ease-in-out{transition-timing-function:cubic-bezier(.4,0,.2,1)}.hover\:bg-blue-700:hover{--tw-bg-opacity:1;background-color:rgba(29,78,216,var(--tw-bg-opacity))}.hover\:text-blue-800:hover{--tw-text-opacity:1;color:rgba(30,64,175,var(--tw-text-opacity))}.focus\:outline-none:focus{outline:2px solid transparent;outline-offset:2px}

diff --git a/onboard/index.html b/onboard/index.html
@@ -8,18 +8,18 @@
 
 		
 
-		<link rel="modulepreload" href="/_app/start-ee7a6b3a.js">
+		<link rel="modulepreload" href="/_app/start-6b4cd450.js">
 		<link rel="modulepreload" href="/_app/chunks/vendor-3c118b73.js">
 		<link rel="modulepreload" href="/_app/pages/__layout.svelte-297936f9.js">
-		<link rel="modulepreload" href="/_app/pages/onboard.svelte-ed50c082.js">
+		<link rel="modulepreload" href="/_app/pages/onboard.svelte-ba6d5145.js">
 		<link rel="modulepreload" href="/_app/chunks/Sidebar-cd3a2008.js">
 		<link rel="stylesheet" href="/_app/assets/start-464e9d0a.css">
-		<link rel="stylesheet" href="/_app/assets/pages/__layout.svelte-ea67d884.css">
-		<link rel="stylesheet" href="/_app/assets/pages/articles/cadence.svelte-7733983d.css">
+		<link rel="stylesheet" href="/_app/assets/pages/__layout.svelte-f8be769b.css">
+		<link rel="stylesheet" href="/_app/assets/index.svelte_svelte&type=style&lang-687d79b2.css">
 		<link rel="stylesheet" href="/_app/assets/Sidebar.svelte_svelte&type=style&lang-ef550f66.css">
 
 		<script type="module">
-			import { start } from "/_app/start-ee7a6b3a.js";
+			import { start } from "/_app/start-6b4cd450.js";
 			start({
 				target: document.querySelector("#svelte"),
 				paths: {"base":"","assets":""},
@@ -33,7 +33,7 @@
 					error: null,
 					nodes: [
 						import("/_app/pages/__layout.svelte-297936f9.js"),
-						import("/_app/pages/onboard.svelte-ed50c082.js")
+						import("/_app/pages/onboard.svelte-ba6d5145.js")
 					],
 					page: {
 						host: location.host, // TODO this is redundant
@@ -63,7 +63,9 @@
 </button>
 		<svg width="auto" height="30"><text x="0" y="20" class="svelte-1aiu60v">Idea to Customer Productivity</text></svg></nav></header>
 <main><div class="support-grid"></div>
-    <div class="onboard"><div id="glossary" class="glossary"></div>
+    <div class="onboard"><div class="glossary"><button id="exportGlossary" class="bg-blue-500 hover:bg-blue-700 text-white font-bold py-2 px-4 rounded">Button
+            </button>
+            <div id="glossary"></div></div>
         <div class="dag"><svg id="dag"></svg></div></div></main></main>
 
 

diff --git a/index.html b/index.html
@@ -8,18 +8,18 @@
 
 		
 
-		<link rel="modulepreload" href="/_app/start-ee7a6b3a.js">
+		<link rel="modulepreload" href="/_app/start-6b4cd450.js">
 		<link rel="modulepreload" href="/_app/chunks/vendor-3c118b73.js">
 		<link rel="modulepreload" href="/_app/pages/__layout.svelte-297936f9.js">
 		<link rel="modulepreload" href="/_app/pages/index.svelte-dcca4041.js">
 		<link rel="modulepreload" href="/_app/chunks/Sidebar-cd3a2008.js">
 		<link rel="stylesheet" href="/_app/assets/start-464e9d0a.css">
-		<link rel="stylesheet" href="/_app/assets/pages/__layout.svelte-ea67d884.css">
-		<link rel="stylesheet" href="/_app/assets/pages/articles/cadence.svelte-7733983d.css">
+		<link rel="stylesheet" href="/_app/assets/pages/__layout.svelte-f8be769b.css">
+		<link rel="stylesheet" href="/_app/assets/index.svelte_svelte&type=style&lang-687d79b2.css">
 		<link rel="stylesheet" href="/_app/assets/Sidebar.svelte_svelte&type=style&lang-ef550f66.css">
 
 		<script type="module">
-			import { start } from "/_app/start-ee7a6b3a.js";
+			import { start } from "/_app/start-6b4cd450.js";
 			start({
 				target: document.querySelector("#svelte"),
 				paths: {"base":"","assets":""},

diff --git a/articles/shift-left-introduction/index.html b/articles/shift-left-introduction/index.html
@@ -8,17 +8,17 @@
 
 		
 
-		<link rel="modulepreload" href="/_app/start-ee7a6b3a.js">
+		<link rel="modulepreload" href="/_app/start-6b4cd450.js">
 		<link rel="modulepreload" href="/_app/chunks/vendor-3c118b73.js">
 		<link rel="modulepreload" href="/_app/pages/__layout.svelte-297936f9.js">
 		<link rel="modulepreload" href="/_app/pages/articles/shift-left-introduction.svelte-0c021c80.js">
 		<link rel="stylesheet" href="/_app/assets/start-464e9d0a.css">
-		<link rel="stylesheet" href="/_app/assets/pages/__layout.svelte-ea67d884.css">
-		<link rel="stylesheet" href="/_app/assets/pages/articles/cadence.svelte-7733983d.css">
+		<link rel="stylesheet" href="/_app/assets/pages/__layout.svelte-f8be769b.css">
+		<link rel="stylesheet" href="/_app/assets/index.svelte_svelte&type=style&lang-687d79b2.css">
 		<link rel="stylesheet" href="/_app/assets/Sidebar.svelte_svelte&type=style&lang-ef550f66.css">
 
 		<script type="module">
-			import { start } from "/_app/start-ee7a6b3a.js";
+			import { start } from "/_app/start-6b4cd450.js";
 			start({
 				target: document.querySelector("#svelte"),
 				paths: {"base":"","assets":""},

diff --git a/articles/core-values/index.html b/articles/core-values/index.html
@@ -8,17 +8,17 @@
 
 		
 
-		<link rel="modulepreload" href="/_app/start-ee7a6b3a.js">
+		<link rel="modulepreload" href="/_app/start-6b4cd450.js">
 		<link rel="modulepreload" href="/_app/chunks/vendor-3c118b73.js">
 		<link rel="modulepreload" href="/_app/pages/__layout.svelte-297936f9.js">
 		<link rel="modulepreload" href="/_app/pages/articles/core-values.svelte-6373d5f2.js">
 		<link rel="stylesheet" href="/_app/assets/start-464e9d0a.css">
-		<link rel="stylesheet" href="/_app/assets/pages/__layout.svelte-ea67d884.css">
-		<link rel="stylesheet" href="/_app/assets/pages/articles/cadence.svelte-7733983d.css">
+		<link rel="stylesheet" href="/_app/assets/pages/__layout.svelte-f8be769b.css">
+		<link rel="stylesheet" href="/_app/assets/index.svelte_svelte&type=style&lang-687d79b2.css">
 		<link rel="stylesheet" href="/_app/assets/Sidebar.svelte_svelte&type=style&lang-ef550f66.css">
 
 		<script type="module">
-			import { start } from "/_app/start-ee7a6b3a.js";
+			import { start } from "/_app/start-6b4cd450.js";
 			start({
 				target: document.querySelector("#svelte"),
 				paths: {"base":"","assets":""},

diff --git a/articles/cadence/index.html b/articles/cadence/index.html
@@ -8,17 +8,17 @@
 
 		
 
-		<link rel="modulepreload" href="/_app/start-ee7a6b3a.js">
+		<link rel="modulepreload" href="/_app/start-6b4cd450.js">
 		<link rel="modulepreload" href="/_app/chunks/vendor-3c118b73.js">
 		<link rel="modulepreload" href="/_app/pages/__layout.svelte-297936f9.js">
 		<link rel="modulepreload" href="/_app/pages/articles/cadence.svelte-6564fdfd.js">
 		<link rel="stylesheet" href="/_app/assets/start-464e9d0a.css">
-		<link rel="stylesheet" href="/_app/assets/pages/__layout.svelte-ea67d884.css">
-		<link rel="stylesheet" href="/_app/assets/pages/articles/cadence.svelte-7733983d.css">
+		<link rel="stylesheet" href="/_app/assets/pages/__layout.svelte-f8be769b.css">
+		<link rel="stylesheet" href="/_app/assets/index.svelte_svelte&type=style&lang-687d79b2.css">
 		<link rel="stylesheet" href="/_app/assets/Sidebar.svelte_svelte&type=style&lang-ef550f66.css">
 
 		<script type="module">
-			import { start } from "/_app/start-ee7a6b3a.js";
+			import { start } from "/_app/start-6b4cd450.js";
 			start({
 				target: document.querySelector("#svelte"),
 				paths: {"base":"","assets":""},
